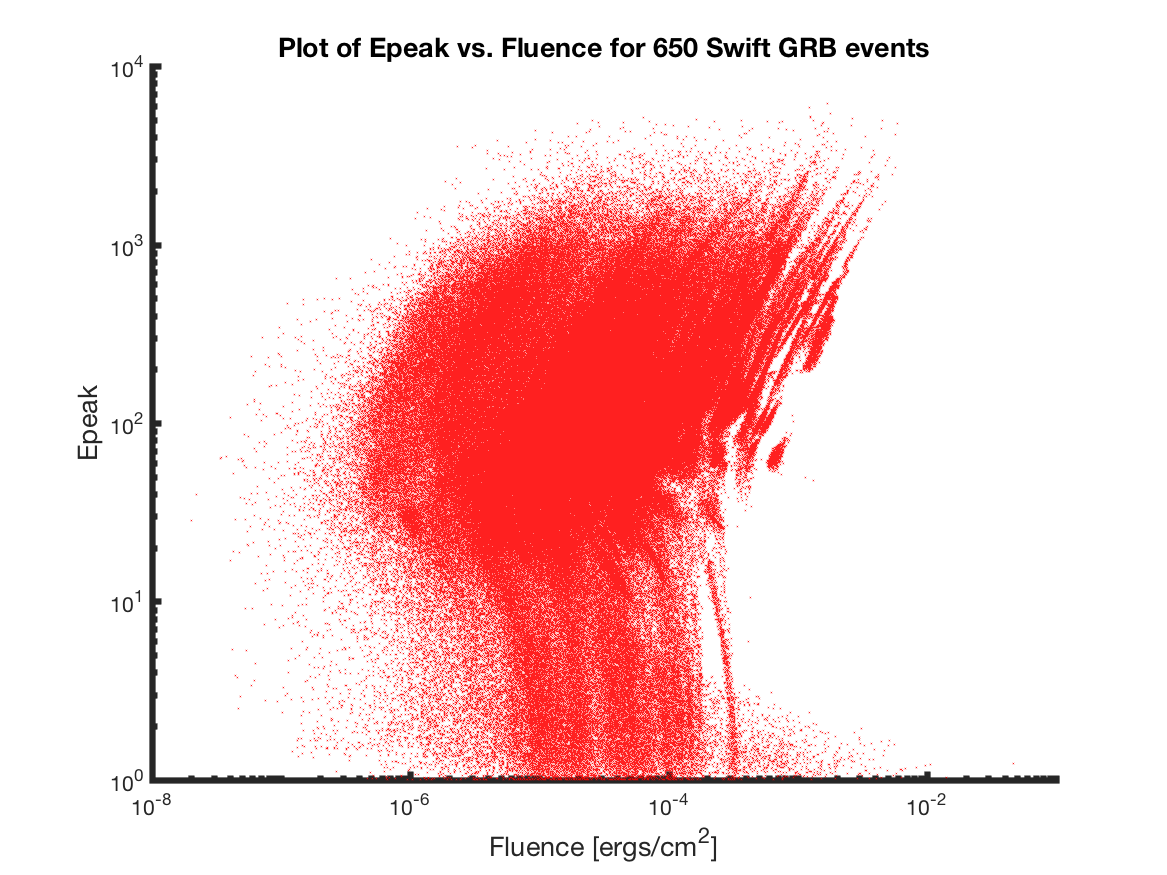
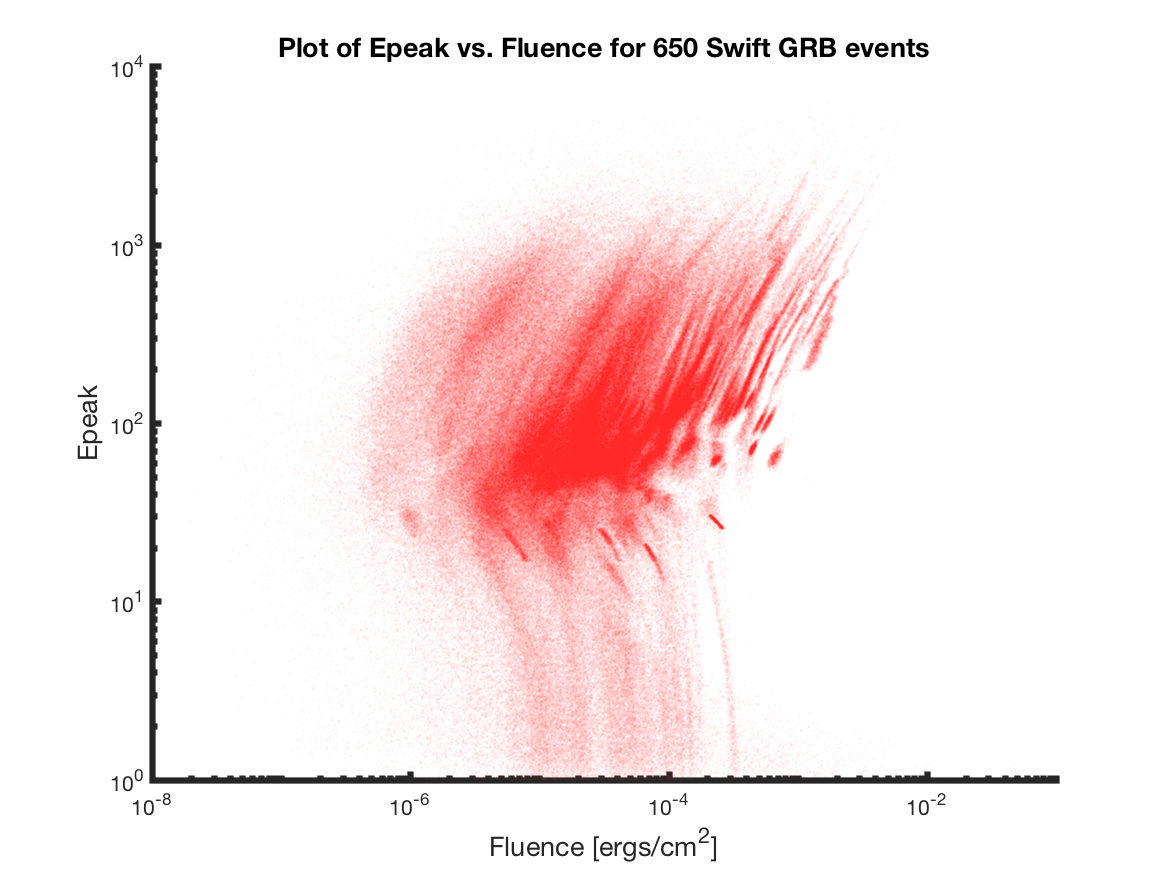
Updating my graph for number 2

Changed region(s): [[0.2159, 0.1543, 0.7712, 0.8949]]

diff --git a/Homework/5/Homework 5/Question 2/plotDataFromFile.m b/Homework/5/Homework 5/Question 2/plotDataFromFile.m
@@ -6,7 +6,8 @@ for n = files'
         if(all(table{:,2} < 0.0)) 
             table{:,2} = exp(table{:,2});
             counter = counter + 1;
-            scatter(table.Var2, table.Var1, 0.1, 'red');
+            scatter(table{:, 2}, table{:, 1}, 1, 'MarkerFaceColor', 'r', ...
+                'MarkerEdgeColor', 'r', 'MarkerFaceAlpha', 0.01, 'MarkerEdgeAlpha', 0.01);
             hold on;
         end
     else
@@ -21,7 +22,6 @@ y_label_locations = logspace(0, 4, 5);
 x_label_locations = logspace(-8, -2, 4);
 xlabel('Fluence [ergs/cm^2]', 'fontsize', 13);
 ylabel('Epeak', 'fontsize', 13);
-set(gca, 'linewidth', 3);
 set(gca, 'yTick', y_label_locations, 'xTick',x_label_locations, 'YScale', 'log', 'XScale', 'log', 'linewidth', 3);
 saveas(gca, '650 Swift GRB Events.png')
 
